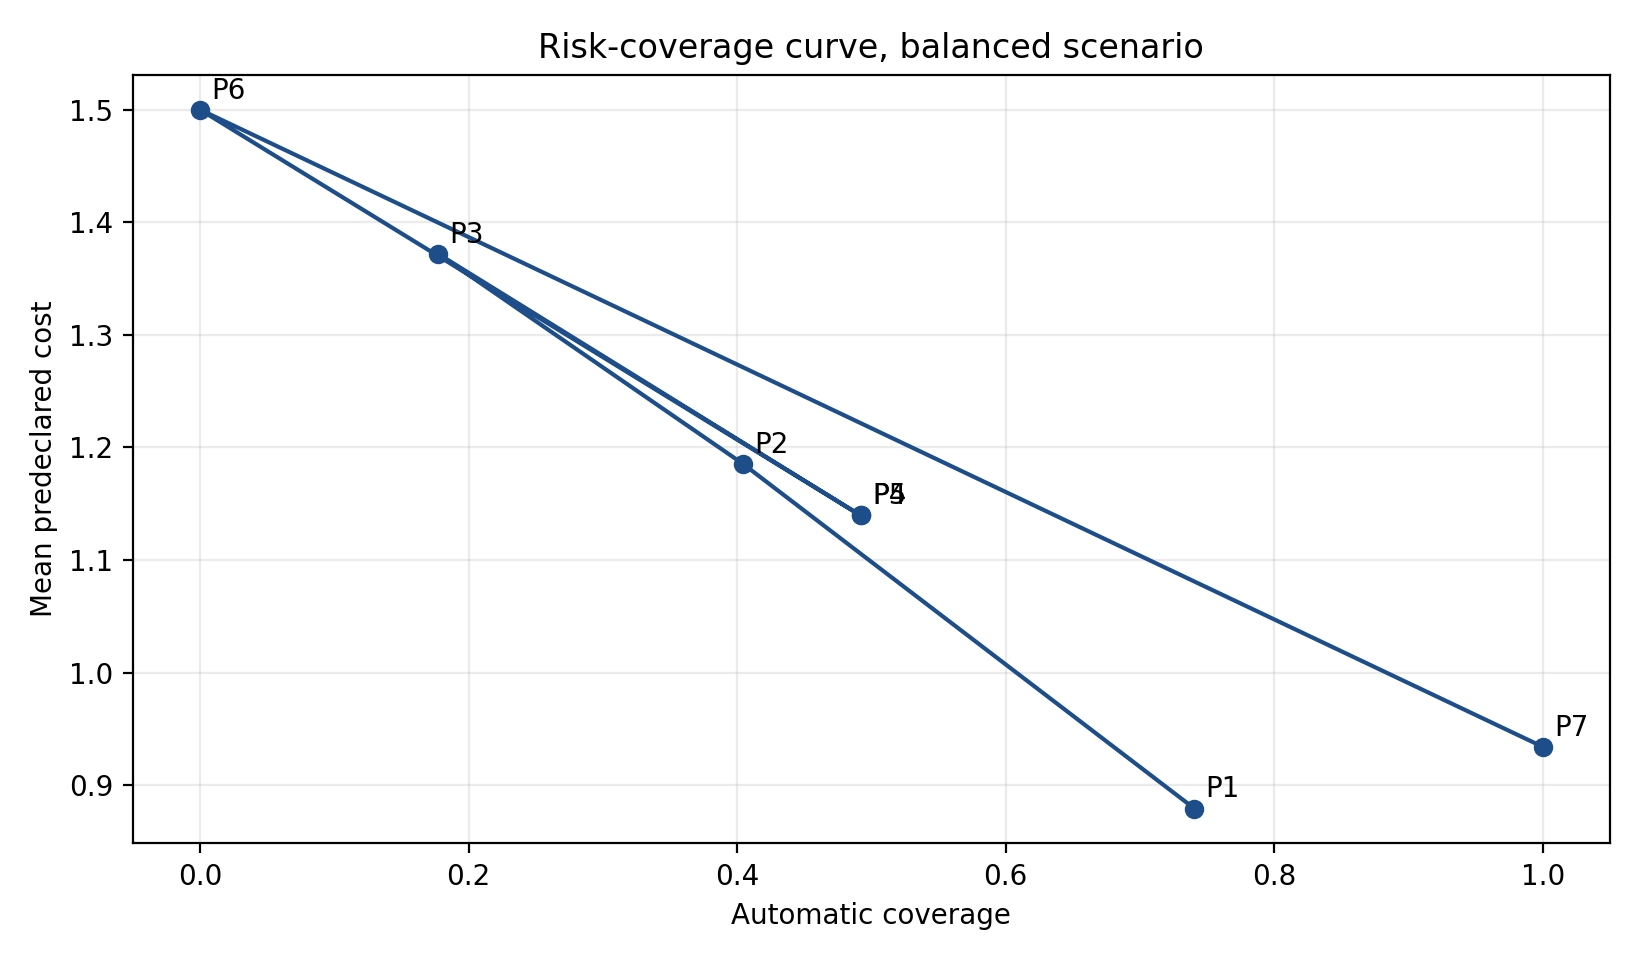
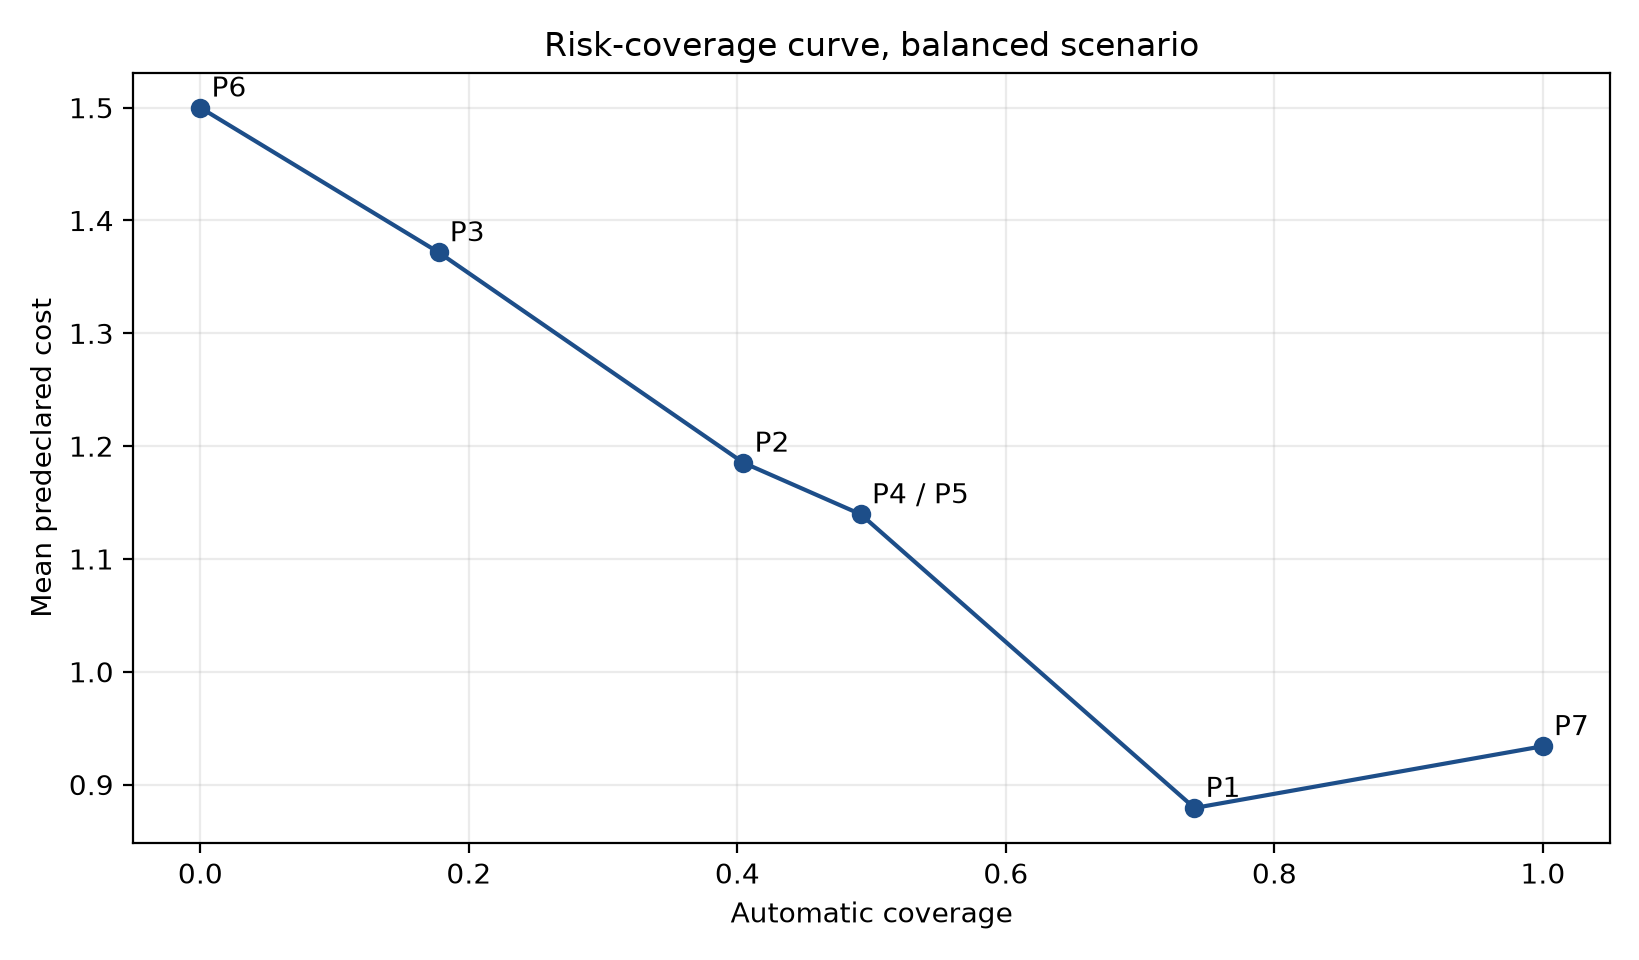
Clarify duplicate policy points in risk coverage figure

diff --git a/scripts/build_dissertation_figures.py b/scripts/build_dissertation_figures.py
@@ -20,6 +20,19 @@ def read(path: Path) -> dict[str, Any]:
     return json.loads(path.read_text(encoding="utf-8"))
 
 
+def group_policy_points(rows: list[dict[str, Any]]) -> list[dict[str, Any]]:
+    """Combine policies with identical measured coordinates before plotting."""
+
+    grouped: dict[tuple[float, float], list[str]] = {}
+    for row in rows:
+        key = (float(row["automatic_coverage"]), float(row["mean_cost"]))
+        grouped.setdefault(key, []).append(str(row["policy_id"]))
+    return [
+        {"automatic_coverage": coverage, "mean_cost": cost, "label": " / ".join(sorted(labels))}
+        for (coverage, cost), labels in sorted(grouped.items())
+    ]
+
+
 def build(evidence: Path, output: Path) -> list[Path]:
     chapter3 = output / "chapter3"
     chapter4 = output / "chapter4"
@@ -43,10 +56,16 @@ def build(evidence: Path, output: Path) -> list[Path]:
 
     policies = read(evidence / "policies/policy_comparison.json")
     balanced = [row for row in policies["policies"] if row["cost_scenario"] == "balanced"]
+    policy_points = group_policy_points(balanced)
     fig, ax = plt.subplots(figsize=(8.2, 4.8))
-    ax.plot([row["automatic_coverage"] for row in balanced], [row["mean_cost"] for row in balanced], marker="o", color="#1d4e89")
-    for row in balanced:
-        ax.annotate(row["policy_id"], (row["automatic_coverage"], row["mean_cost"]), xytext=(4, 4), textcoords="offset points")
+    ax.plot(
+        [row["automatic_coverage"] for row in policy_points],
+        [row["mean_cost"] for row in policy_points],
+        marker="o",
+        color="#1d4e89",
+    )
+    for row in policy_points:
+        ax.annotate(row["label"], (row["automatic_coverage"], row["mean_cost"]), xytext=(4, 4), textcoords="offset points")
     ax.set(xlabel="Automatic coverage", ylabel="Mean predeclared cost", title="Risk-coverage curve, balanced scenario")
     ax.grid(alpha=0.25)
     fig.tight_layout()
